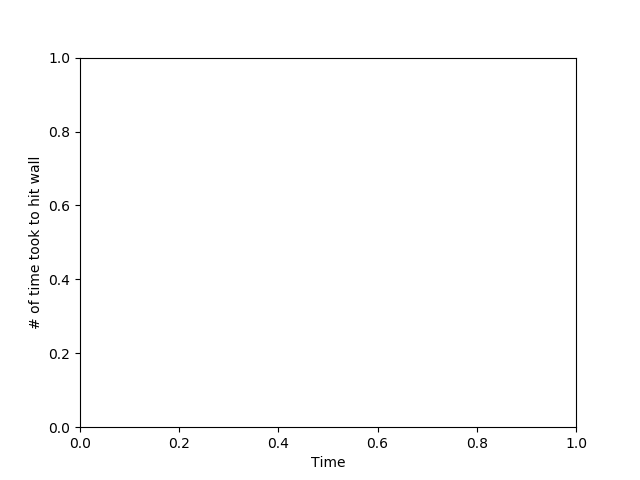
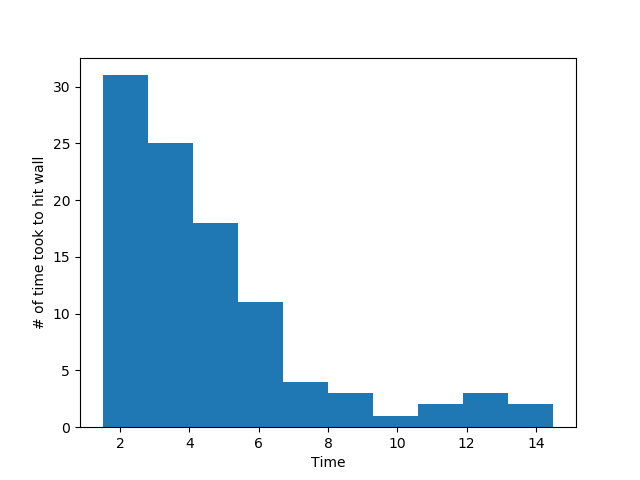
added graphing functions

diff --git a/Project_1/Project_1.py b/Project_1/Project_1.py
@@ -6,8 +6,6 @@ matplotlib.use('Agg')
 import matplotlib.pyplot as plt
 import os
 
-
-
 def input():
     #input parameters using argparse
     parser = argparse.ArgumentParser(description='')
@@ -39,27 +37,14 @@ def drag_f(damping_coef,i_velocity):
     return drag_force
 
 def euler(time_step,velocity,position, damping_coef, temp):
-    #velocity = list()
-    #position = list()
-    #time = list()
-    #n = int(total_time // time_step)
 
-    #velocity.append(i_velocity)
-    #position.append(i_position)
-    #time.append(0.0)
-
-    #for i in range(n):
     a = drag_f(damping_coef, velocity) + random_f(temp, damping_coef,K_B=1,epsi=1)
-    new_velocity = velocity + a* time_step
+    new_velocity = velocity + a*time_step
     new_position = position + velocity * time_step
-
-
-        #t = time + time_step
-        #velocity.append(velocity_t)
-        #position.append(position_t)
-        #time.append(t)
-    #print("a,v,p=", a,new_velocity,new_position)
-    return a,new_velocity, new_position
+    #print(new_position)
+    #print("rf", random_f(temp, damping_coef,K_B=1,epsi=1)
+    #print("v,p=", new_velocity,new_position)
+    return new_velocity, new_position
 
 def write_output(output):
     #Write the output file containing index, time, position, and velocity of particles
@@ -77,17 +62,73 @@ def write_output(output):
         Output.write('\n')
     Output.close()
 
-#def hit_wall(time_step, new_velocity, new_position, damping_coef, temp, time,wall):
+def hit_wall(time_step, new_velocity, new_position, damping_coef, temp, wall,n):
+
+    time = 0
+    position = []
+    Time = []
+    position.append(new_position)
+    Time.append(time)
+    for i in range(n):
+        new_vel, new_pos = euler(time_step, new_velocity, new_position, damping_coef, temp, )
+        time += time_step
+        new_position = new_pos
+        new_velocity = new_vel
+        position.append(new_position)
+        Time.append(time)
+        if new_position > wall or new_position < -wall:
+            return time, position, Time
 
 
+#    new_vel, new_pos = euler(time_step, new_velocity, new_position, damping_coef, temp)
+#    #print("no hit", new_pos)
+#    if new_pos >= wall or new_pos <= -wall:
+#         #print("hit")
+#            return i+1
+#        else:
+#            return 'Null'
 
-        # await asyncio.sleep(0.05)
-        #write_output(output)
-
- #           return True
-  #      return False
 
 def histogram():
+    time_took = []
+
+    #
+    #    new_position,new_velocity=euler(time_step, new_velocity, new_position, damping_coef, temp)
+    for j in range(100):
+        i_position = 0
+        i_velocity = 0
+        time_step = 0.1
+        temp = 300
+        wall = 5
+        total_time = 1000
+        damping_coef = 0.1
+        n = int(total_time // time_step)
+        new_position = i_position
+        new_velocity = i_velocity
+        t,p,T=hit_wall(time_step, new_velocity, new_position, damping_coef, temp, wall,n)
+        time_took.append(t)
+
+        if j == 1:
+            plt.figure()
+            plt.xlabel('Time')
+            plt.ylabel('# of time took to hit wall')
+            plt.plot(T,p)
+            hist_path = os.path.join('trajectory.png')
+            plt.savefig(hist_path)
+
+    plt.figure()
+    plt.xlabel('Time')
+    plt.ylabel('# of time took to hit wall')
+    plt.hist(time_took)
+    hist_path = os.path.join('histogram.png')
+    plt.savefig(hist_path)
+
+
+
+    print(time_took)
+    #return print(time_took, len(time_took))
+
+def traj():
     i_position = 0
     i_velocity = 0
     time_step = 0.1
@@ -98,39 +139,18 @@ def histogram():
     n = int(total_time // time_step)
     new_position = i_position
     new_velocity = i_velocity
-   # time = 0
-    num_took = list()
-    #put=[]
+    time_took = []
     for i in range(n):
-        if i !=0:
-            new_position = new_pos
-            new_velocity = new_vel
-        for j in range(0,100):
-            new_acc, new_vel, new_pos = euler(time_step, new_velocity, new_position, damping_coef, temp)
-            #time += time_step
-            # index += 1
-            # output.append([index, time, new_pos, new_vel])
-
-            if new_pos >= wall or new_pos <= -wall:
-                num_took.append(j+1)
-                break
-     #   write_output(put)
-
-    print(num_took, len(num_took))
-
-               #result = hit_wall(time_step, new_velocity, new_position, damping_coef, temp,n, time,wall)
-            #if result== True:
-
-             #   break
+        #time_took.append(hit_wall(time_step, new_velocity, new_position, damping_coef, temp, wall))
+        new_position, new_velocity = euler(time_step, new_velocity, new_position, damping_coef, temp)
 
     plt.figure()
     plt.xlabel('Time')
     plt.ylabel('# of time took to hit wall')
-    #plt.hist(hit_wall())
-    hist_path = os.path.join('histogram.png')
+    plt.hist(time_took)
+    hist_path = os.path.join('trajectory.png')
     plt.savefig(hist_path)
-
-
+    # return print(time_took, len(time_took))
 
 def main():  # pragma: no cover
     parser = input()
@@ -156,7 +176,7 @@ def main():  # pragma: no cover
 
     for i in range(n):
 
-        new_acc, new_vel, new_pos = euler(time_step,new_velocity,new_position, damping_coef, temp,)
+        new_vel, new_pos = euler(time_step,new_velocity,new_position, damping_coef, temp,)
         time += time_step
         index += 1
         output.append([index, time, new_pos, new_vel])
@@ -169,8 +189,8 @@ def main():  # pragma: no cover
     return None
 
 if __name__ == '__main__':
-    input()
-    main()
+    #input()
+    #main()
     histogram()
 
 """Main module."""
